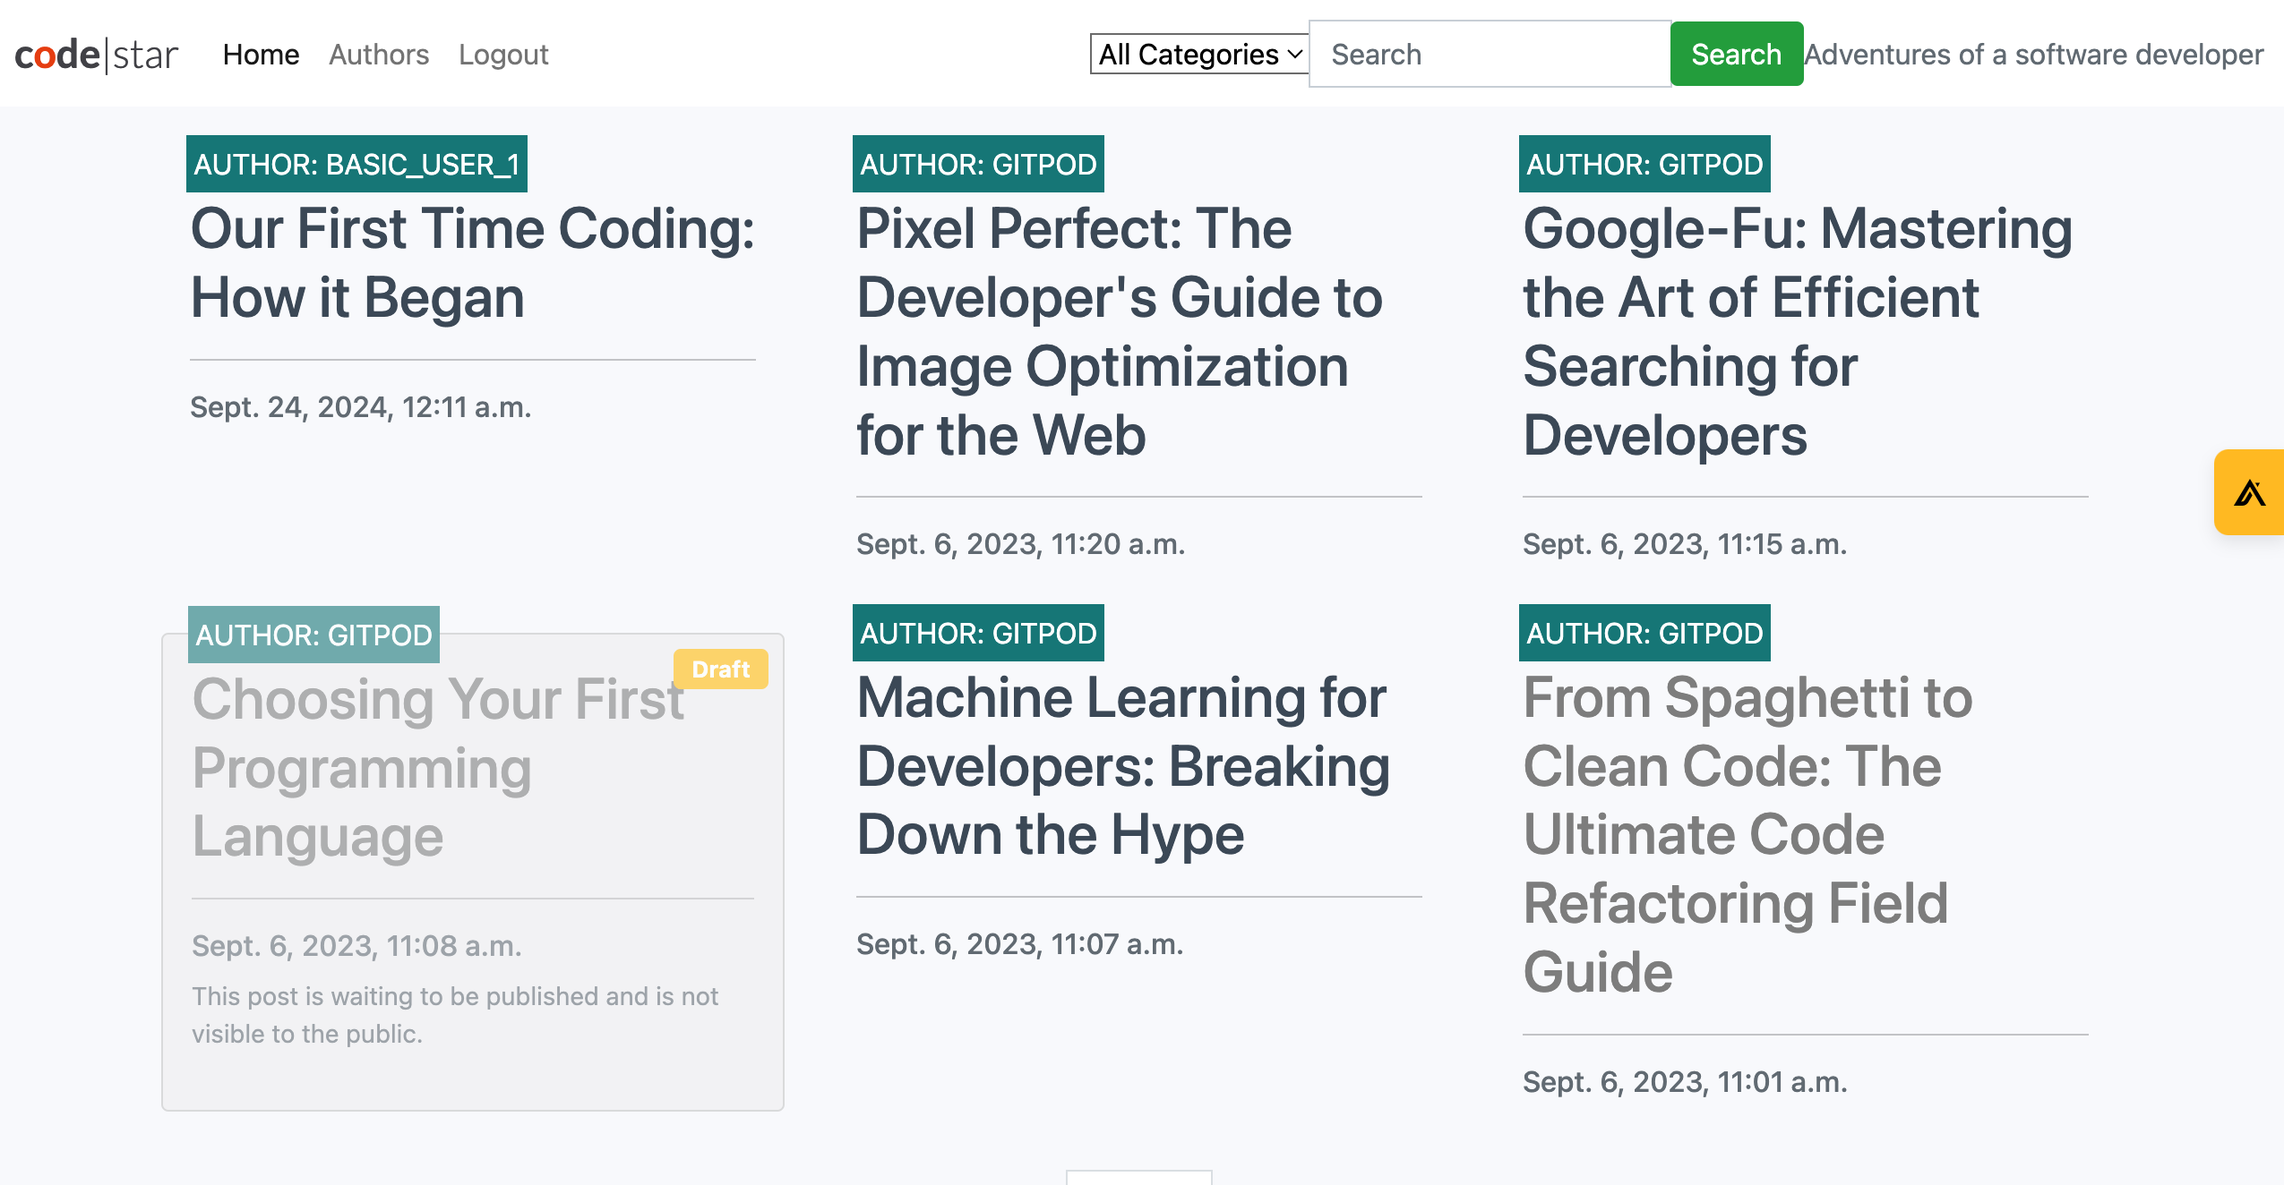
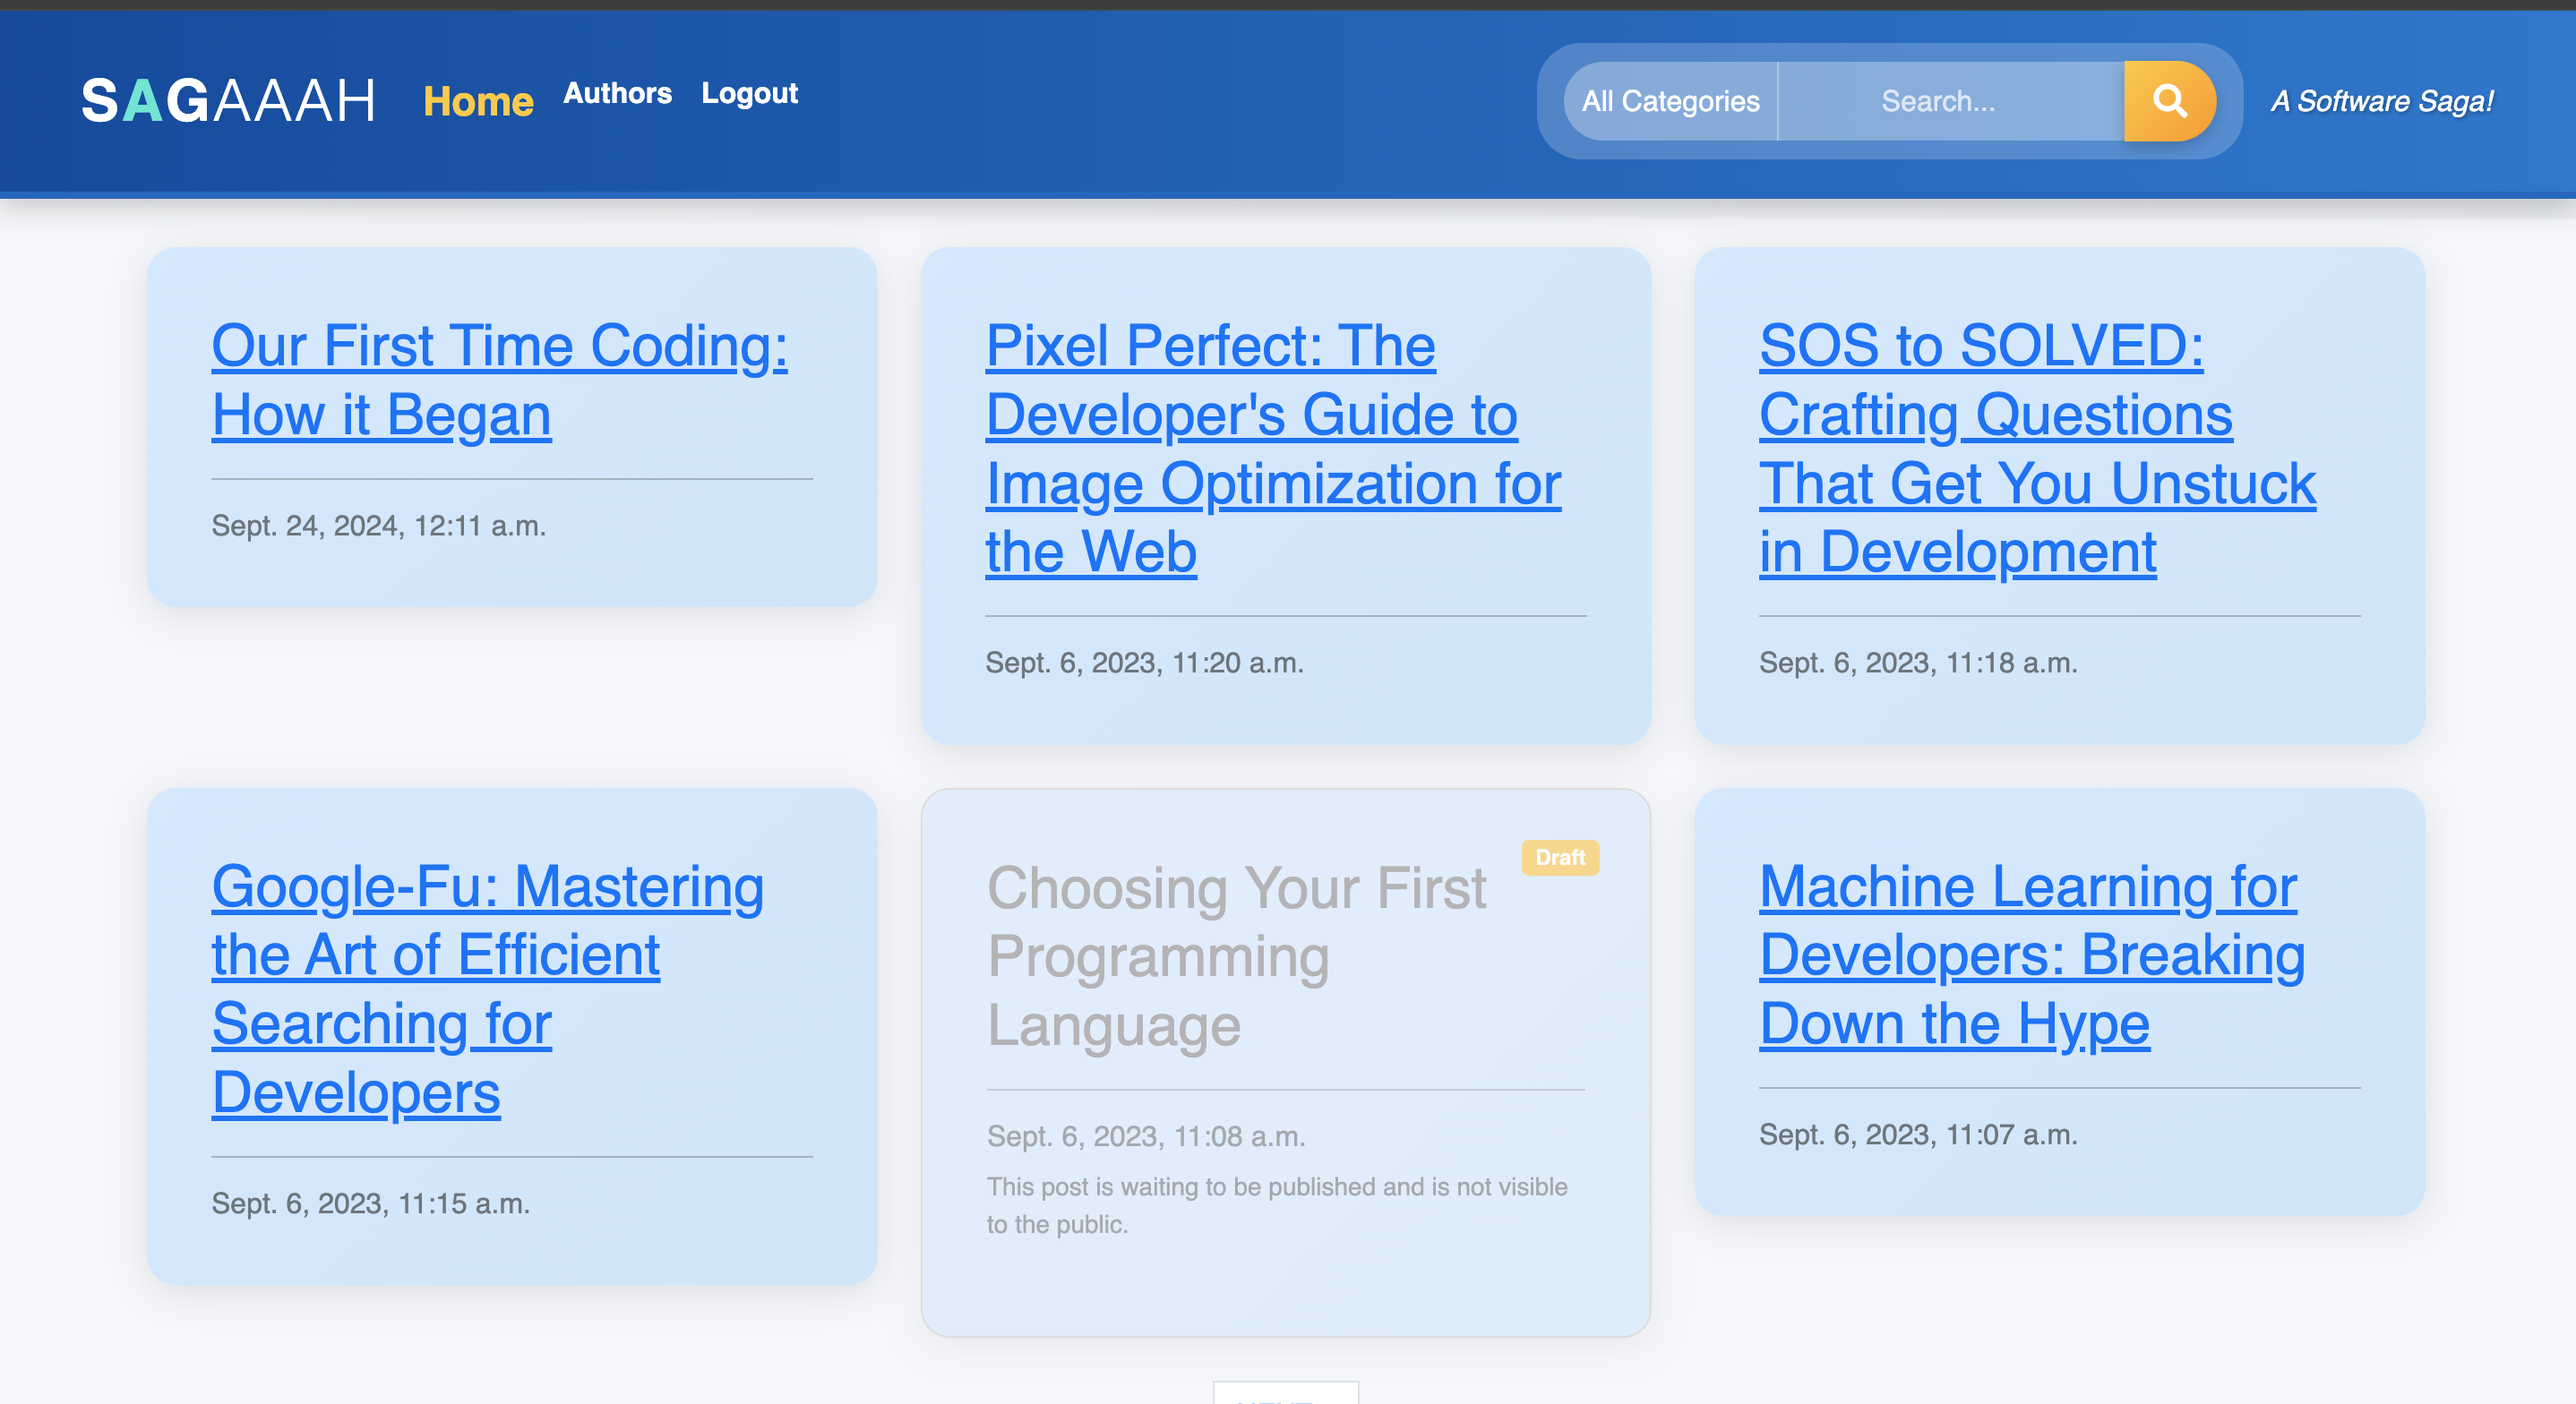
Improvements for lighthouse testing, acessibility and SEO, and updated README

diff --git a/templates/base.html b/templates/base.html
@@ -4,6 +4,7 @@
     <title>Richards Blog</title>
     <meta charset="UTF-8">
     <meta name="viewport" content="width=device-width, initial-scale=1">
+    <meta name="description" content="Welcome to Richard's Software Blog – A place to share thoughts, insights, and ideas. Read, comment, and engage with great content.">
     
     <!-- Load static files and URLs -->
     {% load static %}
@@ -115,7 +116,7 @@
           </ul>
           <form method="get" action="{% url 'home' %}" class="navbar-search">
             <div class="input-group">
-                <select name="category" class="custom-select" onchange="this.form.submit()">
+                <select name="category" class="custom-select" onchange="this.form.submit()" aria-label="Choose a category">
                     <option value="">All Categories</option>
                     {% for category in categories %}
                         <option value="{{ category }}" {% if selected_category == category %}selected{% endif %}>
@@ -124,7 +125,7 @@
                     {% endfor %}
                 </select>
                 <input class="search-input" type="search" name="q" placeholder="Search..." value="{{ query }}">
-                <button class="search-btn" type="submit">
+                <button class="search-btn" type="submit" aria-label="Search">
                     <i class="fas fa-search"></i>
                 </button>
             </div>

diff --git a/README.md b/README.md
@@ -54,6 +54,20 @@ The project uses Django's ORM for database management. The key models are:
 
 ![Database Diagram](assets/P4_Diagram.png)
 
+## User Experience (UX)
+
+### Wireframes
+
+Before development, wireframes were created to plan the layout and structure of key pages. These wireframes served as a guide for implementing the blog interface and navigation.
+
+- **Home Page Wireframe**  
+  ![Home Page Wireframe](assets/homePage.jpg)
+
+- **Blog Page Wireframe**  
+  ![Blog Page Wireframe](assets/blogPage.jpg)
+
+The final design evolved from these initial wireframes while keeping usability and accessibility in mind.
+
 ## Technologies Used
 
 - **Django 4.2.16**: The web framework used to build the application.
